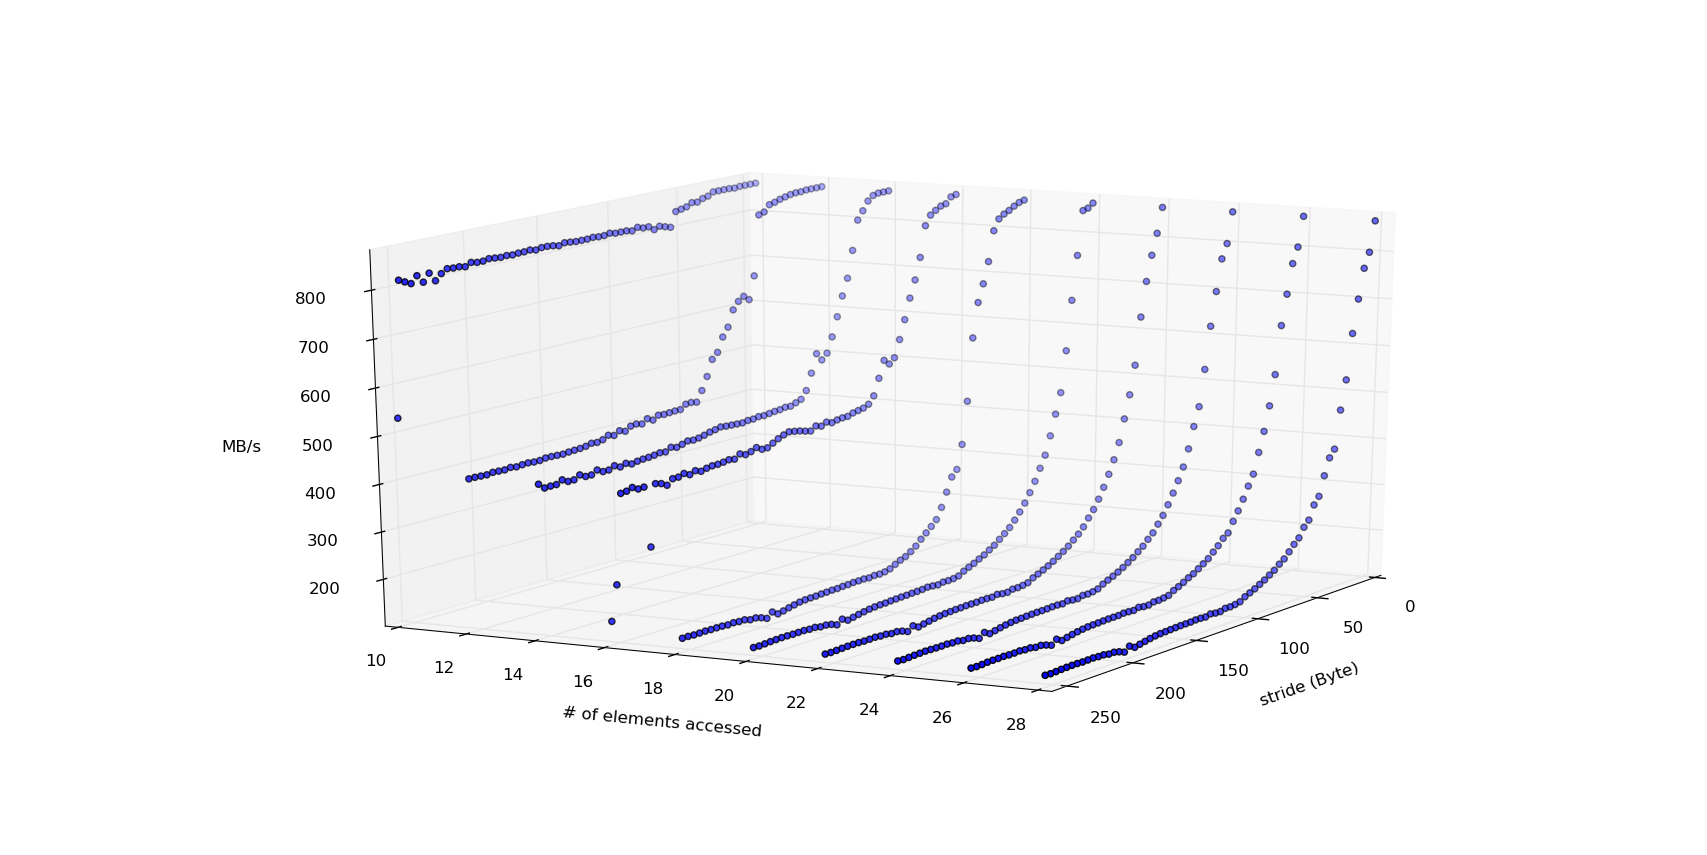
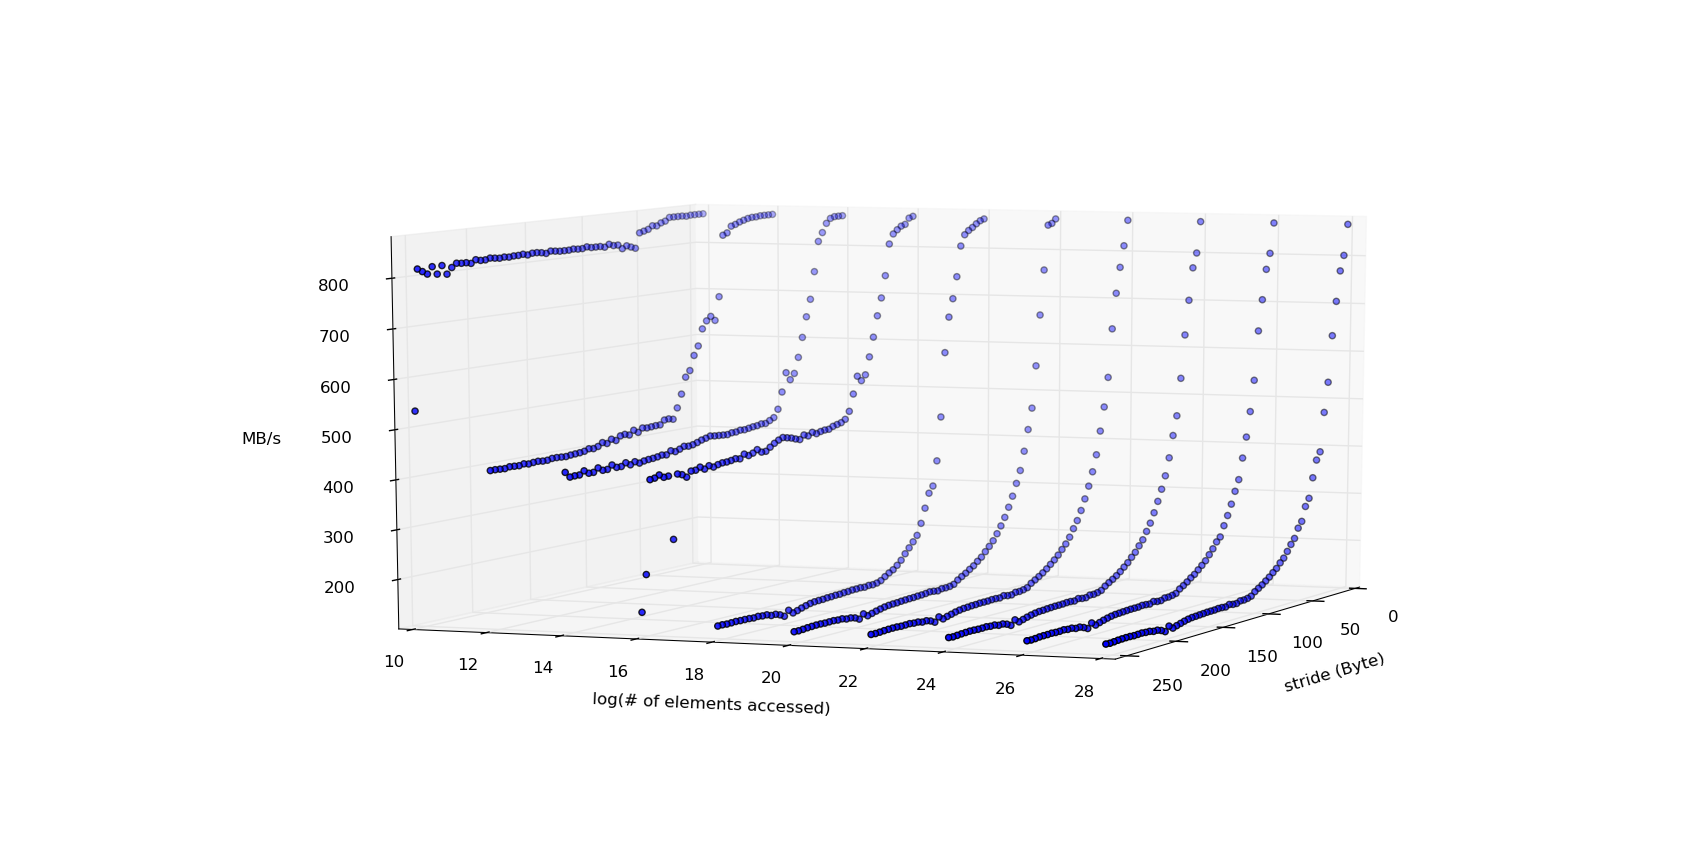
new plot for mountain

diff --git a/hw2/plot.py b/hw2/plot.py
@@ -41,7 +41,7 @@ Z2 = mlab.griddata(X, Y, Z, X2, Y2)
 
 ax.scatter(X, Y, Z)
 ax.set_xlabel("stride (Byte)")
-ax.set_ylabel("# of elements accessed")
+ax.set_ylabel("log(# of elements accessed)")
 ax.set_zlabel("MB/s")
 plt.show()
 
